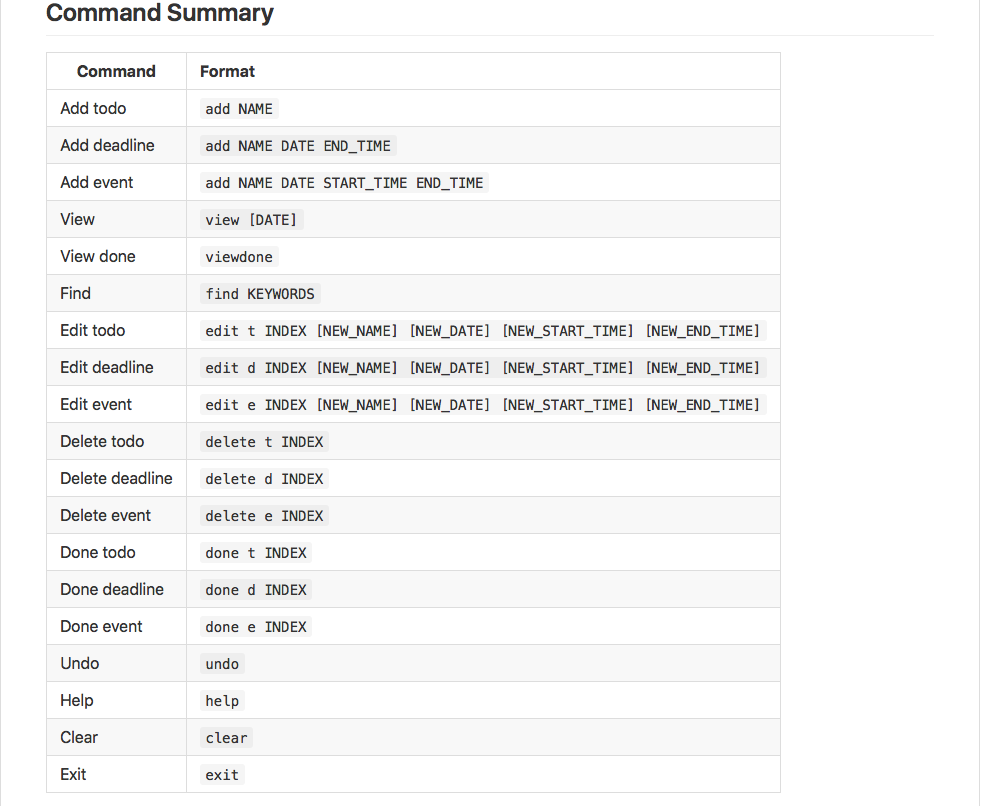
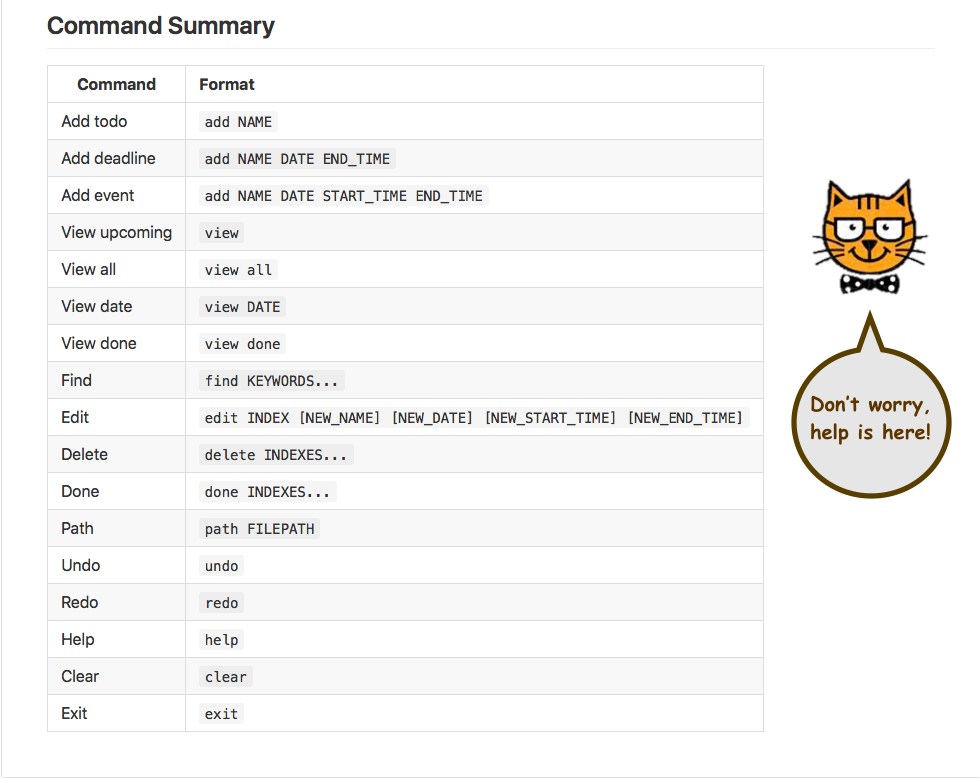
Update help window to look nicer

diff --git a/src/main/java/seedu/taskitty/ui/HelpWindow.java b/src/main/java/seedu/taskitty/ui/HelpWindow.java
@@ -50,19 +50,13 @@ public class HelpWindow extends UiPart {
         //Null passed as the parent stage to make it non-modal.
         dialogStage = createDialogStage(TITLE, null, scene);
         Screen screen = Screen.getPrimary();
-        Rectangle2D bounds = screen.getVisualBounds();
 
-        dialogStage.setX(bounds.getMinX());
-        dialogStage.setY(bounds.getMinY());
-        dialogStage.setWidth(bounds.getWidth());
-        dialogStage.setHeight(bounds.getHeight());
         setIcon(dialogStage, ICON);
         
         Image helpImage = AppUtil.getImage(HELPIMAGE);
         ImageView helpImageView = new ImageView(helpImage);        
         FxViewUtil.applyAnchorBoundaryParameters(helpImageView, 0.0, 0.0, 0.0, 0.0);
-        helpImageView.fitWidthProperty().bind(dialogStage.widthProperty()); 
-        helpImageView.fitHeightProperty().bind(dialogStage.heightProperty());
+        helpImageView.autosize();
         mainPane.getChildren().add(helpImageView);
     }
 
